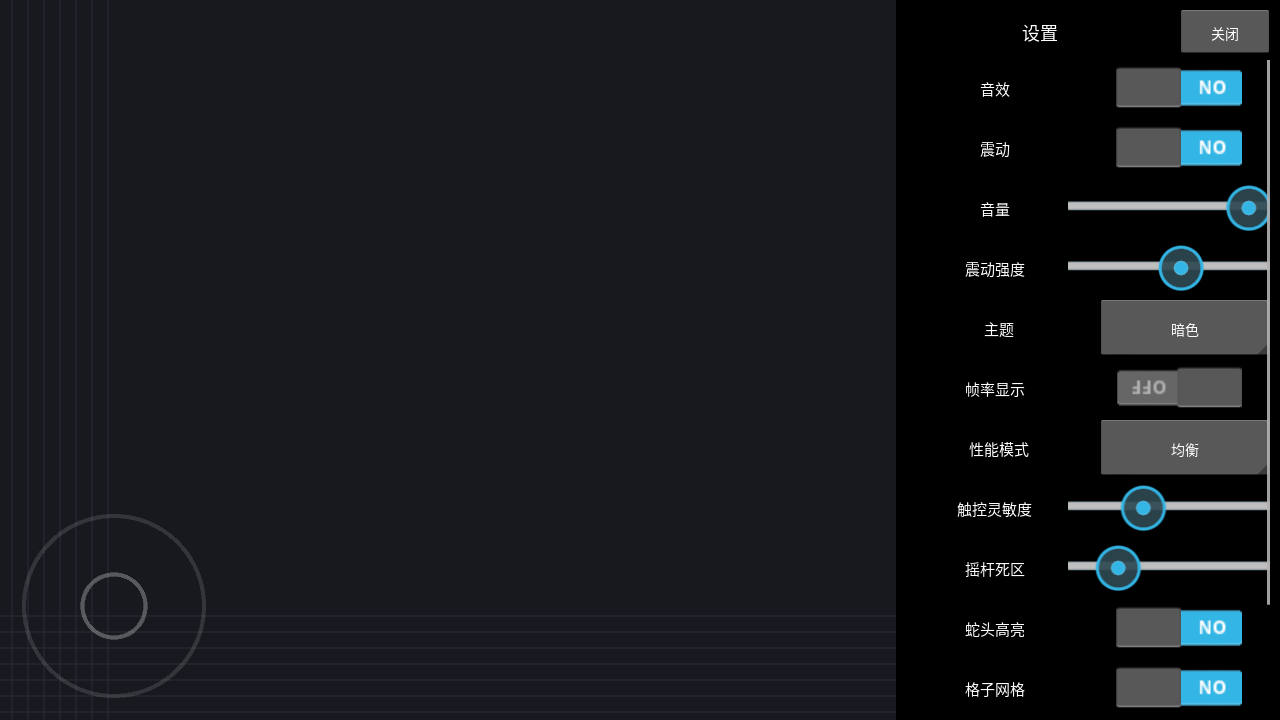
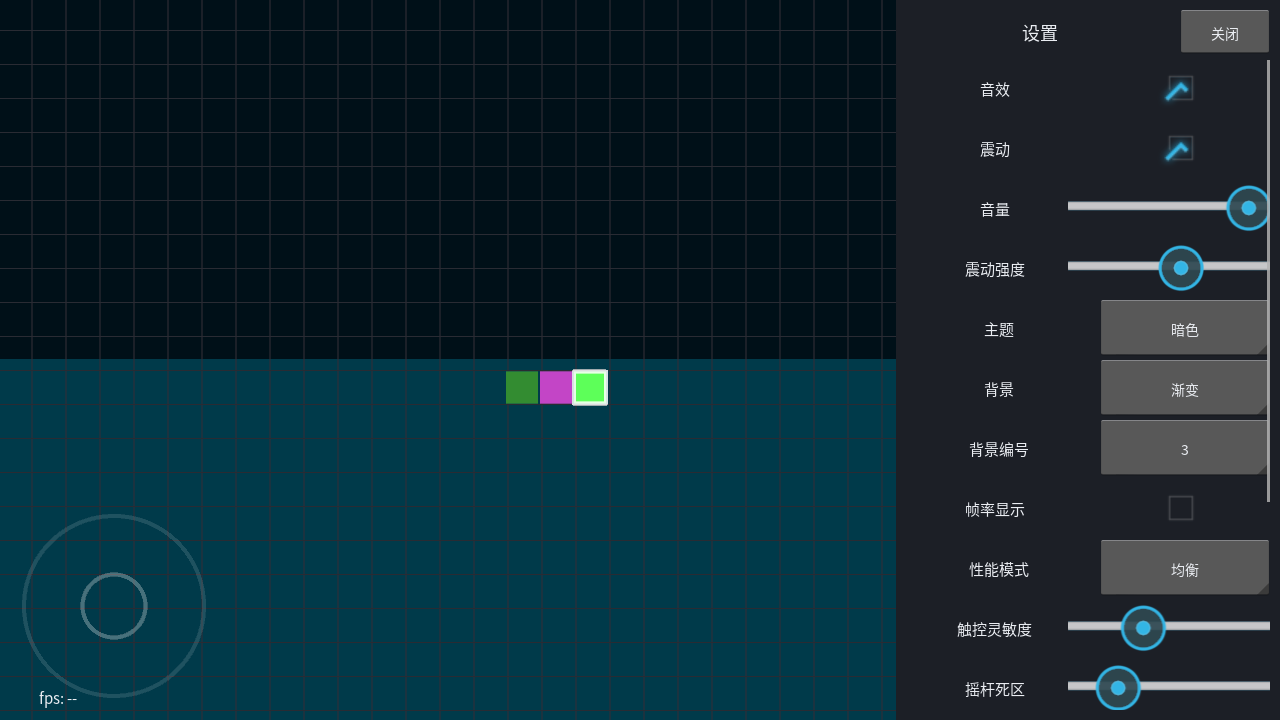
Visual: gradient bg + snake gradient render, 16/16 palettes, bg selector, pure random food

diff --git a/src/view/game_canvas.py b/src/view/game_canvas.py
@@ -15,6 +15,7 @@ from kivy.uix.widget import Widget
 from app import constants as C
 from app import strings
 from app.theme import palette
+from core.colors import background_color, gradient_pair, snake_gradient
 from app.fonts import font_name
 from core.camera import Camera
 from core.game import Game
@@ -184,8 +185,17 @@ class GameCanvas(Widget):
 
         g = vp.grid_size
         with self.canvas:
-            Color(*self.colors["bg"])
-            Rectangle(pos=self.pos, size=self.size)
+            if self.bg_mode == "gradient":
+                a, b = gradient_pair(self.bg_index)
+                Color(a[0], a[1], a[2], 1)
+                Rectangle(pos=(self.x, self.y + self.height / 2),
+                          size=(self.width, self.height / 2 + 1))
+                Color(b[0], b[1], b[2], 1)
+                Rectangle(pos=self.pos, size=(self.width, self.height / 2 + 1))
+            else:
+                r, g, bl = background_color(self.bg_index)
+                Color(r, g, bl, 1)
+                Rectangle(pos=self.pos, size=self.size)
 
             Color(*self.colors["grid"])
             x0, y0, x1, y1 = vp.visible_bounds()
@@ -240,8 +250,9 @@ class GameCanvas(Widget):
             cells = segment_cells(self.game.snake, self.game.tick_progress, self._cells_buf)
             pad_snake = 1.0
 
-            Color(*self.colors["body"])
+            grad = snake_gradient(len(cells), self.snake_hue)
             for idx in range(1, len(cells)):
+                Color(grad[idx][0], grad[idx][1], grad[idx][2], 1)
                 cell = cells[idx]
                 px, py = to_pixel(cell, g, vp.origin_x, vp.origin_y)
                 if -g <= px <= self.width + g and -g <= py <= self.height + g:
@@ -250,7 +261,7 @@ class GameCanvas(Widget):
                         size=(g - 2 * pad_snake, g - 2 * pad_snake),
                     )
 
-            Color(*self.colors["head"])
+            Color(grad[0][0], grad[0][1], grad[0][2], 1)
             hx, hy = to_pixel(cells[0], g, vp.origin_x, vp.origin_y)
             Rectangle(
                 pos=(hx - g / 2 + pad_snake, hy - g / 2 + pad_snake),
@@ -323,9 +334,10 @@ class GameCanvas(Widget):
             self.rebuild()
 
     def set_background(self, mode: str, index: int) -> None:
-        """背景选择（视觉应用待恢复：当前仅保存状态，避免渲染回归）。"""
-        self.bg_mode = str(mode)
+        """背景选择：solid / gradient，index 0~15（实时重建）。"""
+        self.bg_mode = "gradient" if mode == "gradient" else "solid"
         self.bg_index = int(index) % 16
+        self.rebuild()
 
     def set_theme(self, name: str) -> None:
         self.colors = palette(name)

diff --git a/tests/test_replay_driver.py b/tests/test_replay_driver.py
@@ -9,7 +9,7 @@ from core.replay_player import ReplayDriver
 
 
 def _record(script, seed=42, ticks=None):
-    game = Game(seed)
+    game = Game(seed, deterministic_food=True)
     rec = Recorder(seed, "human")
     heads = []
     for i, d in enumerate(script):
@@ -33,7 +33,7 @@ def _script(n=140):
 
 def test_replay_ui_advances_snake():
     payload, heads = _record(_script())
-    game = Game(payload["seed"])
+    game = Game(payload["seed"], deterministic_food=True)
     driver = ReplayDriver(game, payload)
 
     played = 0
@@ -46,7 +46,7 @@ def test_replay_ui_advances_snake():
 
 def test_replay_pause_freezes_snake():
     payload, _heads = _record(_script())
-    game = Game(payload["seed"])
+    game = Game(payload["seed"], deterministic_food=True)
     driver = ReplayDriver(game, payload)
     driver.step(5)
     before = tuple(game.snake.head)
@@ -63,11 +63,11 @@ def test_replay_pause_freezes_snake():
 def test_replay_speed_affects_tick_rate():
     payload, _heads = _record(_script())
 
-    g1 = Game(payload["seed"])
+    g1 = Game(payload["seed"], deterministic_food=True)
     d1 = ReplayDriver(g1, payload, speed_index=1)   # 1x
     n1 = d1.advance(0.5)
 
-    g4 = Game(payload["seed"])
+    g4 = Game(payload["seed"], deterministic_food=True)
     d4 = ReplayDriver(g4, payload, speed_index=3)   # 4x
     n4 = d4.advance(0.5)
 
@@ -76,7 +76,7 @@ def test_replay_speed_affects_tick_rate():
 
 def test_replay_end_stops():
     payload, heads = _record(_script(30))
-    game = Game(payload["seed"])
+    game = Game(payload["seed"], deterministic_food=True)
     driver = ReplayDriver(game, payload)
     total = payload["ticks"]
 

diff --git a/src/core/game.py b/src/core/game.py
@@ -28,8 +28,9 @@ class TickSummary:
 class Game:
     """一局游戏。reset() 之后即可复用实例。"""
 
-    def __init__(self, seed: int = 0) -> None:
+    def __init__(self, seed: int = 0, deterministic_food: bool = False) -> None:
         self.seed = int(seed)
+        self.deterministic_food = bool(deterministic_food)
         # 穿墙模式（D-025）：True 时忽略障碍/墙壁，但自撞仍然死
         self.wrap_mode = False
         # 每个逻辑 tick 开始前的回调（AI 等），回调内可调用 set_direction
@@ -52,7 +53,9 @@ class Game:
         self.score = 0
         self.ticks = 0
         # 食物随机化：由 seed 派生（同 seed 可复现，不同 seed 不同布局）
-        self.food_rng = food_mod.food_rng(self.seed)
+        # 纯随机（默认，跨 seed 不可复现，用户已确认放弃回放确定性）
+        # deterministic_food=True 仅用于回放/种子复现测试
+        self.food_rng = food_mod.food_rng(self.seed) if self.deterministic_food else food_mod.entropy_rng()
         food_mod.reroll_foods(self.world, self.snake, self.food_rng)
 
     # ---------- 输入 ----------

diff --git a/tests/test_replay_ui_layers.py b/tests/test_replay_ui_layers.py
@@ -7,7 +7,7 @@ from core.replay_player import ReplayDriver
 
 
 def _record(script, seed=7, mode=MODE_HUMAN, switch_at=None):
-    game = Game(seed)
+    game = Game(seed, deterministic_food=True)
     rec = Recorder(seed, mode)
     heads = []
     for i, d in enumerate(script):
@@ -30,7 +30,7 @@ def _script(n=120):
 
 
 def _replay_heads(payload, ticks):
-    game = Game(payload["seed"])
+    game = Game(payload["seed"], deterministic_food=True)
     driver = ReplayDriver(game, payload)
     out = []
     while driver.progress()[0] < min(ticks, payload["ticks"]):
@@ -58,7 +58,7 @@ def test_replay_ui_mode_switch():
 
 def test_replay_end_text_same_frame():
     payload, _heads = _record(_script(20))
-    game = Game(payload["seed"])
+    game = Game(payload["seed"], deterministic_food=True)
     driver = ReplayDriver(game, payload)
 
     driver.step(payload["ticks"])

diff --git a/tests/test_gameplay_upgrade.py b/tests/test_gameplay_upgrade.py
@@ -19,9 +19,16 @@ def test_food_not_fixed_across_seeds():
     assert a.world.foods() != b.world.foods(), "不同 seed 食物布局应不同"
 
 
-def test_food_reproducible_for_same_seed():
-    a = Game(42)
-    b = Game(42)
+def test_food_pure_random_each_run():
+    """用户已确认：放弃跨 seed 复现，每次开局食物位置不同。"""
+    samples = {frozenset(Game(42).world.foods()) for _ in range(5)}
+    assert len(samples) > 1, "同 seed 多次开局食物应不同"
+
+
+def test_food_deterministic_mode_for_replay():
+    """回放/种子复现测试仍可用 deterministic_food=True 保留确定性。"""
+    a = Game(42, deterministic_food=True)
+    b = Game(42, deterministic_food=True)
     assert a.world.foods() == b.world.foods()
 
 

diff --git a/src/view/settings_panel.py b/src/view/settings_panel.py
@@ -40,6 +40,8 @@ LABEL_KEY = {
     "head_highlight": "head_highlight",
     "show_grid": "show_grid",
     "font_size": "font_size",
+    "bg_mode": "bg",
+    "bg_index": "bg_index",
 }
 
 
@@ -145,6 +147,9 @@ class SettingsOverlay(ThemedMixin, BoxLayout):
             {"dark": strings.t("theme_dark"), "light": strings.t("theme_light"),
              "high_contrast": strings.t("theme_high_contrast")},
         )
+        self._choice_row("bg_mode", ("solid", "gradient"),
+                         {"solid": strings.t("bg_solid"), "gradient": strings.t("bg_gradient")})
+        self._choice_row("bg_index", tuple(range(16)), {i: str(i) for i in range(16)})
         self._switch_row("show_fps")
         self._choice_row(
             "perf_mode", PERF_MODES,

diff --git a/src/app/app.py b/src/app/app.py
@@ -102,6 +102,7 @@ class SnakeApp(App):
     replayui_shot = False
     confirm_shot = False
     replaypause_shot = False
+    bg_demo = False
     theme_override: str | None = None
     font_override: float | None = None
 
@@ -145,6 +146,9 @@ class SnakeApp(App):
             self.cfg["theme"] = self.theme_override
         if self.font_override:
             self.cfg["font_size"] = self.font_override
+        if self.bg_demo:
+            self.cfg["bg_mode"] = "gradient"
+            self.cfg["bg_index"] = 3
         self.game = Game(DEFAULT_SEED)
         self.recorder = Recorder(self.game.seed, 'human')
         self.game.clock.set_speed(self.speed)

diff --git a/src/app/strings.py b/src/app/strings.py
@@ -36,6 +36,10 @@ ZH = {
     "head_highlight": "蛇头高亮",
     "show_grid": "格子网格",
     "screen_awake": "屏幕常亮",
+    "bg": "背景",
+    "bg_solid": "纯色",
+    "bg_gradient": "渐变",
+    "bg_index": "背景编号",
     "ai_stats": "AI 统计",
     "ai_on": "开启AI",
     "ai_off": "手动接管",
@@ -107,6 +111,10 @@ EN = {
     "head_highlight": "Head highlight",
     "show_grid": "Grid",
     "screen_awake": "Screen awake",
+    "bg": "Background",
+    "bg_solid": "Solid",
+    "bg_gradient": "Gradient",
+    "bg_index": "BG index",
     "ai_stats": "AI stats",
     "ai_on": "Start AI",
     "ai_off": "Take over",

diff --git a/tests/test_replay.py b/tests/test_replay.py
@@ -39,7 +39,7 @@ def test_pending_save_flushed_on_app_stop():
 
 # ---------- 回放确定性 ----------
 def _play(script, seed=42, mode=MODE_HUMAN, mode_script=None):
-    game = Game(seed)
+    game = Game(seed, deterministic_food=True)
     rec = Recorder(seed, mode)
     snaps = []
     for i, d in enumerate(script):
@@ -54,7 +54,7 @@ def _play(script, seed=42, mode=MODE_HUMAN, mode_script=None):
 
 
 def _replay(payload, ticks):
-    game = Game(payload["seed"])
+    game = Game(payload["seed"], deterministic_food=True)
     player = Player(payload)
     snaps = []
     for tick in range(ticks):

diff --git a/src/view/panel.py b/src/view/panel.py
@@ -19,7 +19,7 @@ from view.themed import ThemedMixin
 class Panel(ThemedMixin, BoxLayout):
     def __init__(self, game, on_wrap=None, on_restart=None, on_settings=None,
                  on_history=None, on_achievements=None, on_stats=None,
-                 on_ai=None, on_speed=None, **kwargs) -> None:
+                 on_ai=None, on_speed=None, on_ai_stats=None, **kwargs) -> None:
         super().__init__(orientation="vertical", padding=12, spacing=10, **kwargs)
         self.game = game
         self._on_wrap = on_wrap

diff --git a/tests/test_game.py b/tests/test_game.py
@@ -65,7 +65,8 @@ def test_leaving_chunk_does_not_kill():
 
 
 def test_restart_uses_same_seed_world():
+    """地图/障碍仍由 seed 决定；食物已改为纯随机（用户确认）。"""
     game = Game(99)
-    foods_before = set(game.world.foods())
+    blocked_before = set(game.world.blocked())
     game.reset(game.seed)
-    assert set(game.world.foods()) == foods_before
+    assert set(game.world.blocked()) == blocked_before

diff --git a/main.py b/main.py
@@ -98,6 +98,7 @@ def main() -> int:
     app.replayui_shot = "--replayui" in sys.argv
     app.confirm_shot = "--confirmdemo" in sys.argv
     app.replaypause_shot = "--replaypause" in sys.argv
+    app.bg_demo = "--bgdemo" in sys.argv
     for _arg in sys.argv:
         if _arg.startswith("--theme="):
             app.theme_override = _arg.split("=", 1)[1]
